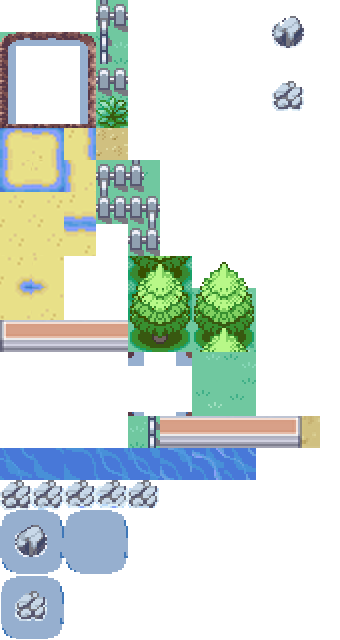
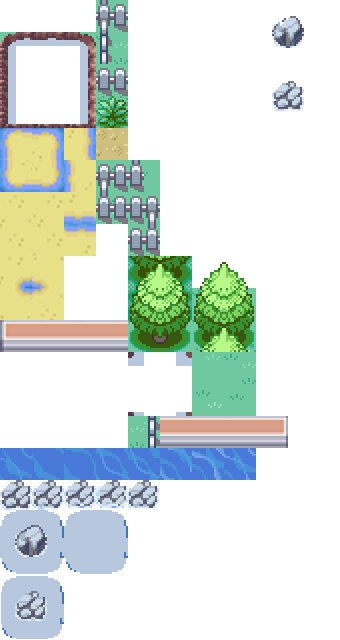
* Route 22 completed added to the world  * Cinnabar re-created correctly  * Event system bugs are fixed in the map editor. Everything now works like it should.  * Fixed route 21's tile sheet
git-svn-id: http://subversion.assembla.com/svn/Project_Valkyrie2@95 080cfd25-d5d9-4c59-82ea-70d02a200d8b

diff --git a/trunk/ValkyrieMapEditor/Core/MapEditorManager.cs b/trunk/ValkyrieMapEditor/Core/MapEditorManager.cs
@@ -77,20 +77,33 @@ namespace ValkyrieMapEditor
             newMap.TextureName = oldMap.TextureName;
             newMap.Texture = TileEngine.TextureManager.GetTexture(newMap.TextureName);
 
-			newMap.UnderLayer = new int[oldMap.MapSize.X * oldMap.MapSize.Y];
-            newMap.BaseLayer = new int[oldMap.MapSize.X * oldMap.MapSize.Y];
-            newMap.MiddleLayer = new int[oldMap.MapSize.X * oldMap.MapSize.Y];
-            newMap.TopLayer = new int[oldMap.MapSize.X * oldMap.MapSize.Y];
-			newMap.CollisionLayer = new int[oldMap.MapSize.X * oldMap.MapSize.Y];
+			newMap.UnderLayer = new int[newMap.MapSize.X * newMap.MapSize.Y];
+			newMap.BaseLayer = new int[newMap.MapSize.X * newMap.MapSize.Y];
+			newMap.MiddleLayer = new int[newMap.MapSize.X * newMap.MapSize.Y];
+			newMap.TopLayer = new int[newMap.MapSize.X * newMap.MapSize.Y];
+			newMap.CollisionLayer = new int[newMap.MapSize.X * newMap.MapSize.Y];
 
-            for (int i = 0; i < (oldMap.MapSize.X * oldMap.MapSize.Y); i++)
-            {
-				newMap.UnderLayer[i] = ((i < oldMap.UnderLayer.Length) ? oldMap.UnderLayer[i] : -1);
-                newMap.BaseLayer[i] = ((i < oldMap.BaseLayer.Length) ? oldMap.BaseLayer[i] : -1);
-                newMap.MiddleLayer[i] = ((i < oldMap.MiddleLayer.Length) ? oldMap.MiddleLayer[i] : -1);
-                newMap.TopLayer[i] = ((i < oldMap.TopLayer.Length) ? oldMap.TopLayer[i] : -1);
-				newMap.CollisionLayer[i] = ((i < oldMap.CollisionLayer.Length) ? oldMap.CollisionLayer[i] : -1);
-            }
+			// Initialize to -1 for optimization. The engine doesn't render -1
+			for (int i = 0; i < (newMap.MapSize.X * newMap.MapSize.Y); i++)
+			{
+				newMap.UnderLayer[i] = -1;
+				newMap.BaseLayer[i] = -1;
+				newMap.MiddleLayer[i] = -1;
+				newMap.TopLayer[i] = -1;
+				newMap.CollisionLayer[i] = -1;
+			}
+
+			// Copy over the -1 initialized engine
+			for (int x = 0; x < newMap.MapSize.X; x++)
+			{
+				for (int y = 0; y < newMap.MapSize.Y; y++)
+				{
+				/*	newMap.BaseLayer[i] = ((i < oldMap.BaseLayer.Length) ? oldMap.BaseLayer[i] : -1);
+					newMap.MiddleLayer[i] = ((i < oldMap.MiddleLayer.Length) ? oldMap.MiddleLayer[i] : -1);
+					newMap.TopLayer[i] = ((i < oldMap.TopLayer.Length) ? oldMap.TopLayer[i] : -1);
+					newMap.CollisionLayer[i] = ((i < oldMap.CollisionLayer.Length) ? oldMap.CollisionLayer[i] : -1);*/
+				}
+			}
 
             return newMap;
         }

diff --git a/trunk/ValkyrieMapEditor/Core/Components/EventsComponent.cs b/trunk/ValkyrieMapEditor/Core/Components/EventsComponent.cs
@@ -71,23 +71,34 @@ namespace ValkyrieMapEditor.Core
             int xOffset = (int)TileEngine.Camera.MapOffset.X / 32 + (int)TileEngine.Camera.CameraOffset.X;
             int yOffset = (int)TileEngine.Camera.MapOffset.Y / 32 + (int)TileEngine.Camera.CameraOffset.Y;
 
-            MapPoint point = new MapPoint(SelectedPoint.X - xOffset, SelectedPoint.Y - yOffset);
-            MapPoint size = new MapPoint(this.EndSelectedPoint.X - this.SelectedPoint.X, this.EndSelectedPoint.Y - this.SelectedPoint.Y);
+			MapPoint point = new MapPoint(SelectedPoint.X + xOffset, SelectedPoint.Y + yOffset);
 
-            BaseMapEvent e = TileEngine.EventManager.GetEventInRect(point, size);
+            BaseMapEvent e = TileEngine.EventManager.GetEventInRect(point, new BasePoint(1, 1));
 
+			bool newEvent = false;
 			if (e != null)
 			{
 				SelectedPoint = e.Location.ToPoint();
 				EndSelectedPoint = (e.Location + e.Size).ToPoint();
 			}
+			else
+			{
+				newEvent = true;
+			}
+
+			MapPoint size = new MapPoint(this.EndSelectedPoint.X - this.SelectedPoint.X, this.EndSelectedPoint.Y - this.SelectedPoint.Y);
 
 			frmMapEvent dialog = new frmMapEvent(e);
 			DialogResult result = dialog.ShowDialog();
 
 			e = dialog.Event;
-			if( e != null)
-				e.Rectangle = new Rectangle(point.X, point.Y, size.X, size.Y);
+			if (e != null)
+			{
+				if(!newEvent)
+					e.Rectangle = new Rectangle(e.Rectangle.X, e.Rectangle.Y, size.X, size.Y);
+				else
+					e.Rectangle = new Rectangle(point.X, point.Y, size.X, size.Y);
+			}
 
 			if (result == DialogResult.OK)
                 TileEngine.EventManager.SetOrAddEvent(e);

diff --git a/trunk/ValkyrieMapEditor/Forms/frmMapEvent.cs b/trunk/ValkyrieMapEditor/Forms/frmMapEvent.cs
@@ -42,7 +42,7 @@ namespace ValkyrieMapEditor.Forms
 		private void frmMapEvent_Load(object sender, EventArgs e)
 		{
 			// Event Handler types
-			foreach(var type in TileEngine.EventManager.EventTypes.Values)
+			foreach (var type in TileEngine.EventManager.EventTypes.Values)
 				this.inType.Items.Add(type);
 
 			this.inType.DisplayMember = "Name";
@@ -72,12 +72,12 @@ namespace ValkyrieMapEditor.Forms
         {
 			if (this.Event != null)
 			{
-				this.inType.SelectedItem = this.Event.GetType();
+				this.inType.SelectedItem = TileEngine.EventManager.EventTypes[Event.GetType()];
 
 				// Set manually
 				for (int i = 0; i < this.inActivation.Items.Count; i++)
 				{
-					if(inActivation.Items[i].ToString() == this.Event.Activation.ToString())
+					if (inActivation.Items[i].ToString() == this.Event.Activation.ToString())
 						this.inActivation.SelectedIndex = i;
 				}
 
@@ -88,11 +88,18 @@ namespace ValkyrieMapEditor.Forms
 						this.inDirection.SelectedIndex = i;
 				}
 
+				this.ClearParameters();
+
 				foreach (var Parameter in this.Event.Parameters)
 					this.AddParameter(Parameter.Key, Parameter.Value, true);
+
+				this.ResizeWindow();
 			}
 
 			this.inType.SelectedIndexChanged += inType_SelectedIndexChanged;
+
+			if( this.Event == null )
+				this.inType_SelectedIndexChanged(this, EventArgs.Empty);
 
 			this.ResizeWindow();
         }
@@ -218,6 +225,8 @@ namespace ValkyrieMapEditor.Forms
 
 			foreach (String param in mapevent.GetParameterNames())
 				this.AddParameter(param, string.Empty, true);
+
+			this.ResizeWindow();
 
 		}
 

diff --git a/trunk/ValkyrieMapEditor/Forms/frmProperty.cs b/trunk/ValkyrieMapEditor/Forms/frmProperty.cs
@@ -76,9 +76,16 @@ namespace ValkyrieMapEditor
 
 			if (TileSet.FullName != (tmp.FullName + TileSet.Name))
 			{
-				var result = MessageBox.Show("Would you like to copy this tile set to the local directory this will override any previous tilesheets with that name?", "Copy Tileset", MessageBoxButtons.YesNo);
-				if (result == DialogResult.Yes)
-					TileSet.CopyTo(Path.Combine(Path.Combine(Environment.CurrentDirectory, TileEngine.Configuration[TileEngineConfigurationName.GraphicsRoot]), TileSet.Name), true);
+				try
+				{
+					var result = MessageBox.Show("Would you like to copy this tile set to the local directory this will override any previous tilesheets with that name?", "Copy Tileset", MessageBoxButtons.YesNo);
+					if (result == DialogResult.Yes)
+						TileSet.CopyTo(Path.Combine(Path.Combine(Environment.CurrentDirectory, TileEngine.Configuration[TileEngineConfigurationName.GraphicsRoot]), TileSet.Name), true);
+				}
+				catch (IOException)
+				{
+					MessageBox.Show(String.Format("Could not copy the image {0} to the target directory.", TileSet.Name), "Error", MessageBoxButtons.OK);
+				}
 			}
 
 			this.map.TextureName = TileSet.Name;

diff --git a/trunk/ValkyrieMapEditor/Forms/frmMain.cs b/trunk/ValkyrieMapEditor/Forms/frmMain.cs
@@ -26,7 +26,7 @@ namespace ValkyrieMapEditor
 		public event EventHandler<ScreenResizedEventArgs> ScreenResized;
 		public event EventHandler<ScrollEventArgs> ScrolledMap;
 
-		public static string ValkyrieGameInstallationAssemblyPath = @"C:\Users\NullSoldier\Documents\Code Work Area\Project Valkyrie\valkyrie\bin\x86\Debug\valkyrie.exe";
+		public static string ValkyrieGameInstallationAssemblyPath = @"C:\Users\NullSoldier\Documents\Code Work Area\Project Valkyrie\trunk\valkyrie\bin\x86\Debug\valkyrie.exe";
 		public static List<Type> EventHandlerTypes;
 
 		public frmMain()
